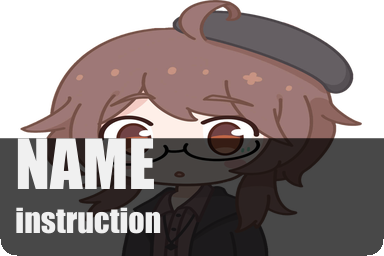
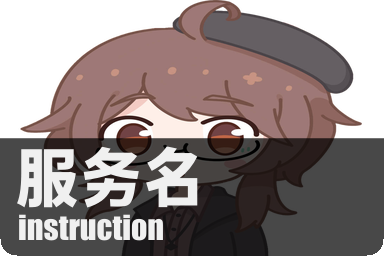
优化

Changed region(s): [[0.0312, 0.5312, 0.5312, 0.9375]]

diff --git a/title.go b/title.go
@@ -24,25 +24,28 @@ func (t *Title) DrawTitle() (imgs image.Image, err error) {
 	canvas.SetRGBA255(0, 0, 0, 153)
 	canvas.Fill()
 
+	fontsize1, fontsize2 := 108.0, 54.0
 	// 加载size为108的字体
-	err = canvas.LoadFontFace(t.TitleFont, 108)
+	err = canvas.LoadFontFace(t.TitleFont, fontsize1)
 	if err != nil {
 		return
 	}
 
 	// 绘制标题
 	canvas.SetRGBA255(250, 250, 250, 255)
-	canvas.DrawString(t.LeftTitle, 25, 30+40+55+canvas.FontHeight()-canvas.FontHeight()/3)
+	stringwight, _ := canvas.MeasureString(t.LeftTitle)
+	canvas.DrawStringAnchored(t.LeftTitle, (220-(fontsize1+fontsize2)*72/96)*0.33+stringwight/2+t.OffsetX, 30+40+(220-(fontsize1+fontsize2)*72/96)*0.33+fontsize1*72/96*0.5+t.OffsetY, 0.5, 0.5)
 
 	// 加载size为54的字体
-	err = canvas.LoadFontFace(t.TitleFont, 54)
+	err = canvas.LoadFontFace(t.TextFont, fontsize2)
 	if err != nil {
 		return
 	}
 
 	canvas.SetRGBA255(250, 250, 250, 255)
 	// 绘制副标题
-	canvas.DrawString(t.LeftSubtitle, 25+3, 30+40+165+canvas.FontHeight()/3)
+	stringwight, _ = canvas.MeasureString(t.LeftSubtitle)
+	canvas.DrawStringAnchored(t.LeftSubtitle, 3+(220-(fontsize1+fontsize2)*72/96)*0.33+stringwight/2+t.OffsetX, 30+40+(220-(fontsize1+fontsize2)*72/96)*0.66+fontsize1*72/96+fontsize2*72/96*0.5+t.OffsetY, 0.5, 0.5)
 
 	// 加载icon并绘制
 	var icon *img.Factory
@@ -51,15 +54,16 @@ func (t *Title) DrawTitle() (imgs image.Image, err error) {
 		return
 	}
 	canvas.DrawImage(icon.Im, int(DefaultWidth)-icon.W, 40+30)
-	// 加载size为54的字体
-	err = canvas.LoadFontFace(t.TitleFont, 72)
+	// 加载size为72的字体
+	fontsize1 = 72
+	err = canvas.LoadFontFace(t.TextFont, fontsize1)
 	if err != nil {
 		return
 	}
-	fw, _ := canvas.MeasureString(t.RightTitle)
-	canvas.DrawString(t.RightTitle, DefaultWidth-25-fw-float64(icon.W), 30+40+15+canvas.FontHeight()*1.25)
-	fw1, _ := canvas.MeasureString(t.RightSubtitle)
-	canvas.DrawString(t.RightSubtitle, DefaultWidth-25-fw1-float64(icon.W), 30+40+15+canvas.FontHeight()*2.75)
+	stringwight, _ = canvas.MeasureString(t.RightTitle)
+	canvas.DrawStringAnchored(t.RightTitle, DefaultWidth-25-float64(icon.W)-stringwight/2+t.OffsetX, 30+40+(220-fontsize1*72/96*2)*0.33+fontsize1*72/96*0.5+t.OffsetY, 0.5, 0.5)
+	stringwight, _ = canvas.MeasureString(t.RightSubtitle)
+	canvas.DrawStringAnchored(t.RightSubtitle, DefaultWidth-25-float64(icon.W)-stringwight/2+t.OffsetX, 30+40+(220-fontsize1*72/96*2)*0.66+fontsize1*72/96*1.5+t.OffsetY, 0.5, 0.5)
 
 	imgs = canvas.Image()
 	return
@@ -80,19 +84,15 @@ func (t *Title) DrawTitleWithText(info []string) (imgs image.Image, err error) {
 
 	// 加载icon
 	var icon *img.Factory
-	icon, err = img.LoadFirstFrame(t.ImagePath, 768, 768)
+	icon, err = img.LoadFirstFrame(t.ImagePath, 512, 512)
 	if err != nil {
 		return
 	}
 	canvas.DrawImage(icon.Im, DefaultWidth-icon.W, imgh-icon.H)
 
-	// 绘制标题与内容的分割线
-	/*canvas.DrawRectangle(0, 220, Imgwight, 10)
-	canvas.SetRGBA255(240, 240, 240, 255)
-	canvas.Fill()*/
-
 	// 加载size为108的字体
-	err = canvas.LoadFontFace(t.TitleFont, 108)
+	fontsize1, fontsize2 := 108.0, 54.0
+	err = canvas.LoadFontFace(t.TitleFont, fontsize1)
 	if err != nil {
 		return
 	}
@@ -100,19 +100,19 @@ func (t *Title) DrawTitleWithText(info []string) (imgs image.Image, err error) {
 	canvas.SetRGBA255(15, 15, 15, 255)
 
 	// 绘制标题
-	titley := 35 + canvas.FontHeight()*0.66
-	canvas.DrawString(t.LeftTitle, 25, titley)
+	stringwight, _ := canvas.MeasureString(t.LeftTitle)
+	canvas.DrawStringAnchored(t.LeftTitle, 25+stringwight/2+t.OffsetX, 25+fontsize1*72/96*0.5+t.OffsetY, 0.5, 0.5)
 	// 加载size为54的字体
-	err = canvas.LoadFontFace(t.TitleFont, 54)
+	err = canvas.LoadFontFace(t.TextFont, fontsize2)
 	if err != nil {
 		return
 	}
 
 	// 绘制一系列标题
-	canvas.DrawString(t.LeftSubtitle, 25+3, titley+canvas.FontHeight()*1.6)
+	stringwight, _ = canvas.MeasureString(t.LeftSubtitle)
+	canvas.DrawStringAnchored(t.LeftSubtitle, 25+3+stringwight/2+t.OffsetX, 25+fontsize1*72/96+25+fontsize2*72/96*0.5+t.OffsetY, 0.5, 0.5)
 
-	lefttitlewight, _ := canvas.MeasureString(t.LeftSubtitle)
-	canvas.DrawRectangle(25, titley+canvas.FontHeight()*1.85, lefttitlewight, 6)
+	canvas.DrawRectangle(25+3+t.OffsetX, 25+fontsize1*72/96+25+fontsize2*72/96+5+t.OffsetY, stringwight, 6)
 	// 绘制插件开启状态
 	if t.IsEnabled {
 		canvas.SetRGBA255(35, 235, 35, 255)
@@ -122,20 +122,20 @@ func (t *Title) DrawTitleWithText(info []string) (imgs image.Image, err error) {
 	canvas.Fill()
 	canvas.SetRGBA255(15, 15, 15, 255)
 
-	fw, _ := canvas.MeasureString(t.RightTitle)
-	canvas.DrawString(t.RightTitle, DefaultWidth-40-fw, 30+canvas.FontHeight()*1.25)
-	fw1, _ := canvas.MeasureString(t.RightSubtitle)
-	canvas.DrawString(t.RightSubtitle, DefaultWidth-40-fw1, 30+canvas.FontHeight()*2.5)
+	stringwight, _ = canvas.MeasureString(t.RightTitle)
+	canvas.DrawStringAnchored(t.RightTitle, DefaultWidth-40-stringwight/2+t.OffsetX, 40+fontsize2*72/96*0.5+t.OffsetY, 0.5, 0.5)
+	stringwight, _ = canvas.MeasureString(t.RightSubtitle)
+	canvas.DrawStringAnchored(t.RightSubtitle, DefaultWidth-40-stringwight/2+t.OffsetX, 40+25+fontsize2*72/96*1.5+t.OffsetY, 0.5, 0.5)
 
 	// 加载size为38的字体
-	err = canvas.LoadFontFace(t.TextFont, 38)
+	err = canvas.LoadFontFace(t.TitleFont, 38)
 	if err != nil {
 		return
 	}
 
-	y := titley
+	y := 25 + fontsize1*72/96 + 25 + fontsize2*72/96
 	for _, text := range info {
-		canvas.DrawString(text, 25.0, 1.5*titley+y+canvas.FontHeight())
+		canvas.DrawString(text, 25.0, y+canvas.FontHeight()*2)
 		y += 20 + canvas.FontHeight()
 	}
 	imgs = canvas.Image()
@@ -156,54 +156,30 @@ func (t *Title) DrawCard() (imgs image.Image, err error) {
 		canvas.SetRGB255(RandJPColor())
 		canvas.Fill()
 	}
-
-	// 绘制遮罩
-	/*canvas.DrawRectangle(0, rech/3*2, recw, rech/3)
-	canvas.SetRGBA255(0, 0, 0, 153)
-	canvas.Fill()*/
-
-	// 绘制排名
-	/*canvas.DrawRectangle(recw/10, 0, recw/10, (rech/4)-10)
-	canvas.DrawRoundedRectangle(recw/10, 0, recw/10, (rech / 4), 8)*/
 	if t.IsEnabled {
 		canvas.DrawRectangle(0, rech*0.54, recw, rech-rech*0.54)
-		// canvas.SetRGBA255(15, 175, 15, 255)
 	} else {
 		canvas.DrawRectangle(0, 0, recw, rech)
-		// canvas.SetRGBA255(200, 15, 15, 255)
 	}
 	canvas.SetRGBA255(0, 0, 0, 183)
 	canvas.Fill()
 
-	// 绘制插件排名
-	/*canvas.SetRGBA255(240, 240, 240, 255)
-	var fw2 float64
-	i, _ := strconv.Atoi(t.Rightsubtitle)
-	if i > 99 {
-		err = canvas.LoadFontFace(t.Fontpath, 24)
-	} else {
-		err = canvas.LoadFontFace(t.Fontpath, 28)
-	}
-	if err != nil {
-		return
-	}
-	fw2, _ = canvas.MeasureString(t.Rightsubtitle)
-	canvas.DrawString(t.Rightsubtitle, recw/10+((recw/10-fw2)/2), canvas.FontHeight()*3/8+(rech/8))*/
-
 	// 绘制插件信息
 	canvas.SetRGBA255(240, 240, 240, 255)
-	err = canvas.LoadFontFace(t.TitleFont, 64)
+	fontsize1, fontsize2 := 64.0, 32.0
+	err = canvas.LoadFontFace(t.TitleFont, fontsize1)
 	if err != nil {
 		return
 	}
-	y := (rech * 0.56) + canvas.FontHeight()*0.95
-	canvas.DrawString(t.LeftTitle, recw*0.04, y)
+	stringwight, _ := canvas.MeasureString(t.LeftTitle)
+	canvas.DrawStringAnchored(t.LeftTitle, stringwight/2+(rech-rech*0.54-(fontsize1+fontsize2)*72/96)*0.33+t.OffsetX, rech*0.54+(rech-rech*0.54-(fontsize1+fontsize2)*72/96)*0.33+fontsize1*72/96*0.5+t.OffsetY, 0.5, 0.5)
 
-	err = canvas.LoadFontFace(t.TitleFont, 32)
+	err = canvas.LoadFontFace(t.TextFont, fontsize2)
 	if err != nil {
 		return
 	}
-	canvas.DrawString(t.LeftSubtitle, recw*0.04, y+canvas.FontHeight()*1.85)
+	stringwight, _ = canvas.MeasureString(t.LeftSubtitle)
+	canvas.DrawStringAnchored(t.LeftSubtitle, 3+stringwight/2+(rech-rech*0.54-(fontsize1+fontsize2)*72/96)*0.33+t.OffsetX, rech*0.54+(rech-rech*0.54-(fontsize1+fontsize2)*72/96)*0.66+fontsize1*72/96+fontsize2*72/96*0.5+t.OffsetY, 0.5, 0.5)
 
 	imgs = Fillet(canvas.Image(), 16)
 	return

diff --git a/title_test.go b/title_test.go
@@ -13,11 +13,12 @@ import (
 func TestDrawTitle(t *testing.T) {
 	img, err := (&Title{
 		Line:          0,
-		LeftTitle:     "FUWULIEBIAO",
+		LeftTitle:     "服务列表",
 		LeftSubtitle:  "service_list",
 		RightTitle:    "FloatTech",
 		RightSubtitle: "ZeroBot-Plugin",
-		TitleFont:     "Impact.ttf",
+		TitleFont:     "GlowSansSC-Normal-ExtraBold.ttf",
+		TextFont:      "Impact.ttf",
 		ImagePath:     ".github/warma.png",
 	}).DrawTitle()
 	if err != nil {
@@ -32,18 +33,18 @@ func TestDrawTitle(t *testing.T) {
 	if err != nil {
 		t.Fatal(err)
 	}
-	assert.Equal(t, "7a7ccec658b1acaf1a018d47357b1f62", hex.EncodeToString(h.Sum(nil)))
+	assert.Equal(t, "28f9f68f3ef7987a9d189b52b9a8b399", hex.EncodeToString(h.Sum(nil)))
 }
 
 func TestDrawTitleWithText(t *testing.T) {
 	img, err := (&Title{
 		Line:          0,
 		IsEnabled:     true,
-		LeftTitle:     "NAME",
+		LeftTitle:     "服务名",
 		LeftSubtitle:  "instruction",
 		RightTitle:    "FloatTech",
 		RightSubtitle: "ZeroBot-Plugin",
-		TitleFont:     "Impact.ttf",
+		TitleFont:     "GlowSansSC-Normal-ExtraBold.ttf",
 		TextFont:      "Impact.ttf",
 		ImagePath:     ".github/warma.png",
 	}).DrawTitleWithText([]string{"one", "two", "san", "si"})
@@ -59,16 +60,16 @@ func TestDrawTitleWithText(t *testing.T) {
 	if err != nil {
 		t.Fatal(err)
 	}
-	assert.Equal(t, "fdff61acd070ab6806cb587f5fad527c", hex.EncodeToString(h.Sum(nil)))
+	assert.Equal(t, "3f18e919e69e38b2302d8b2fc31c4cb2", hex.EncodeToString(h.Sum(nil)))
 }
 
 func TestDrawCard(t *testing.T) {
 	img, err := (&Title{
 		Line:         0,
 		IsEnabled:    true,
-		LeftTitle:    "NAME",
+		LeftTitle:    "服务名",
 		LeftSubtitle: "instruction",
-		TitleFont:    "Impact.ttf",
+		TitleFont:    "GlowSansSC-Normal-ExtraBold.ttf",
 		TextFont:     "Impact.ttf",
 		ImagePath:    ".github/warma.png",
 	}).DrawCard()
@@ -84,5 +85,5 @@ func TestDrawCard(t *testing.T) {
 	if err != nil {
 		t.Fatal(err)
 	}
-	assert.Equal(t, "84d9e5f39b921c3866785c9ae39f74d7", hex.EncodeToString(h.Sum(nil)))
+	assert.Equal(t, "596186f97c3a4126a9d3a7b30b959810", hex.EncodeToString(h.Sum(nil)))
 }

diff --git a/config.go b/config.go
@@ -25,6 +25,10 @@ type Title struct {
 	TitleFont string
 	// TextFont 正文字体路径
 	TextFont string
+	// OffsetX 文字X坐标偏移 向右为正方向
+	OffsetX float64
+	// OffsetX 文字Y坐标偏移 向下为正方向
+	OffsetY float64
 }
 
 // Alignment 对齐规则

diff --git a/utils.go b/utils.go
@@ -23,7 +23,6 @@ func Fillet(dst image.Image, r int) image.Image {
 					dstr.Set(mx-1-x, my-1-y, color.NRGBA{})
 				}
 			}
-
 		}
 	}
 	return dstr

diff --git a/README.md b/README.md
@@ -2,6 +2,9 @@
   <img src=".github/warma.png" alt="沃玛" width = "300">
   </a><br>
   <h1>RenderCard</h1>
+图标是微博<a href = "https://weibo.com/u/1782488734">_warma_</a>评论区一位微博用户下所画的
+
+~~时间过于久远已经找不到原作者了~~
 </div>
 
 > 示例代码详见各`test`
